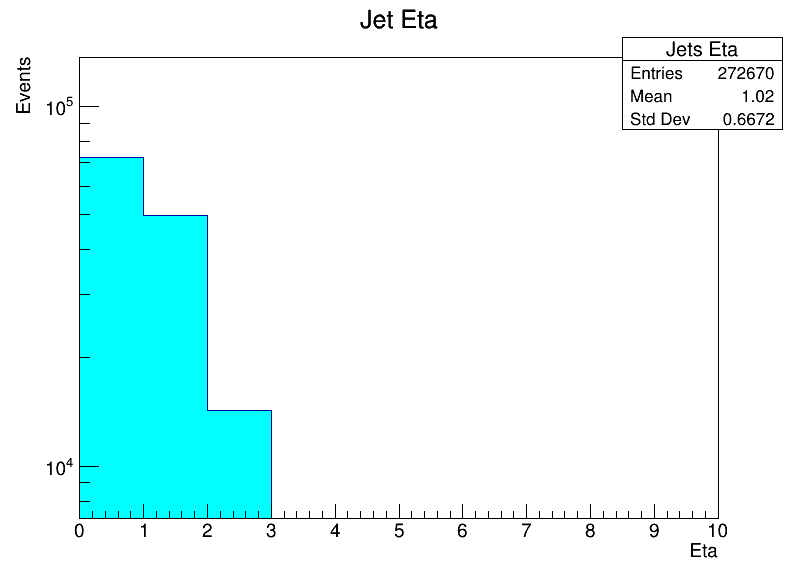
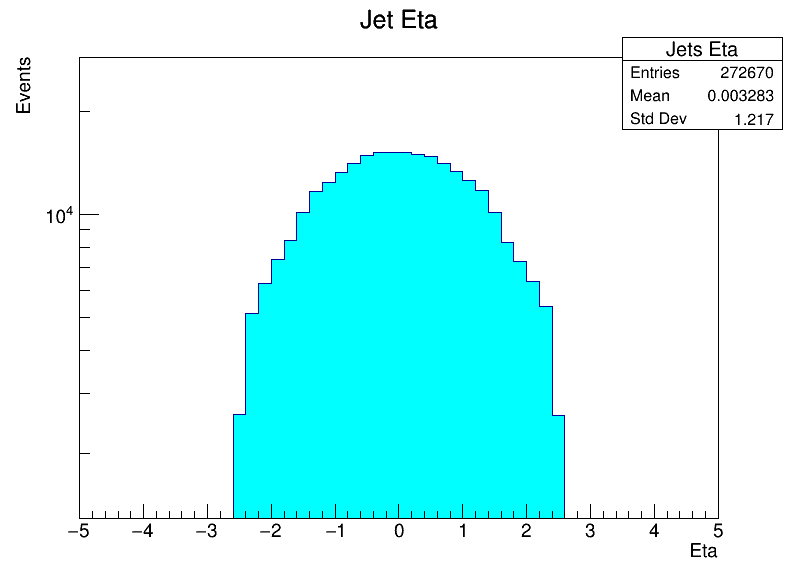
update sclae on histograms

diff --git a/tt-bar/ttbar_macro.cpp b/tt-bar/ttbar_macro.cpp
@@ -65,25 +65,25 @@ void ttbar_macro (){
 
     // Histograms for Jets
     TH1F *hist_njets    = new TH1F("Number of jets","n-jets; Jet multiplicity; Events",10,0,10);
-    TH1F *hist_jets_pt  = new TH1F("Jets pT","Jet pT; pT (GeV); Events",10,0,10);
-    TH1F *hist_jets_eta = new TH1F("Jets Eta","Jet Eta; Eta; Events",10,0,10);
-    TH1F *hist_jets_jvf = new TH1F("Jets JVF","Jet JVF; JVF; Events",10,0,10);
-    TH1F *hist_jets_mv1 = new TH1F("Jets MV1","Jet MV1; MV1; Events",10,0,10);
+    TH1F *hist_jets_pt  = new TH1F("Jets pT","Jet pT; pT (GeV); Events",50,0,1000);
+    TH1F *hist_jets_eta = new TH1F("Jets Eta","Jet Eta; Eta; Events",50,-5,5);
+    TH1F *hist_jets_jvf = new TH1F("Jets JVF","Jet JVF; JVF; Events",50,0,1);
+    TH1F *hist_jets_mv1 = new TH1F("Jets MV1","Jet MV1; MV1; Events",50,0.5,1);
     
     // Histogram for leptons
-    TH1F *hist_lept_pt  = new TH1F("Leptons pT","Lepton pT; pT (GeV); Events",10,0,10);
-    TH1F *hist_lept_pt_cone30 = new TH1F("Track Isolation","Track Isolation; lept_ptcone30/lep_pt; Events",10,0,10);
-    TH1F *hist_lept_et_cone20 = new TH1F("Calorimeter Isolation","Calorimeter Isolation; lept_etcone20/lep_pt; Events",10,0,10);
-    TH1F *hist_lept_eta = new TH1F("Leptons Eta","Lepton Eta; ETa; Events",10,0,10);
+    TH1F *hist_lept_pt  = new TH1F("Leptons pT","Lepton pT; pT (GeV); Events",50,0,1000);
+    TH1F *hist_lept_pt_cone30 = new TH1F("Track Isolation","Track Isolation; lept_ptcone30/lep_pt; Events",50,0,0.2);
+    TH1F *hist_lept_et_cone20 = new TH1F("Calorimeter Isolation","Calorimeter Isolation; lept_etcone20/lep_pt; Events",50,0,0.2);
+    TH1F *hist_lept_eta = new TH1F("Leptons Eta","Lepton Eta; ETa; Events",50,-5,5);
     
     //Histogram for bJets
-    TH1F *hist_nbjets    = new TH1F("Number of b-jets","n-bjets; b-Jet multiplicity; Events",10,0,10);
+    TH1F *hist_nbjets    = new TH1F("Number of b-jets","n-bjets; b-Jet multiplicity; Events",50,0,6);
     
     // Histogram for MET
-    TH1F *hist_MET = new TH1F("MET","MET; MET (GeV); Events",10,0,10);
+    TH1F *hist_MET = new TH1F("MET","MET; MET (GeV); Events",50,0,200);
     
     // Histogram for mTW
-    TH1F *hist_mTW = new TH1F("mTW","mTW; mTW (GeV); Events",10,0,10);
+    TH1F *hist_mTW = new TH1F("mTW","mTW; mTW (GeV); Events",50,0,200);
     
     int nentries, nbytes, i;
     nentries = (Int_t)tree->GetEntries();
